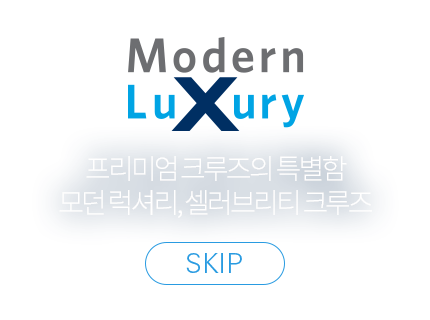
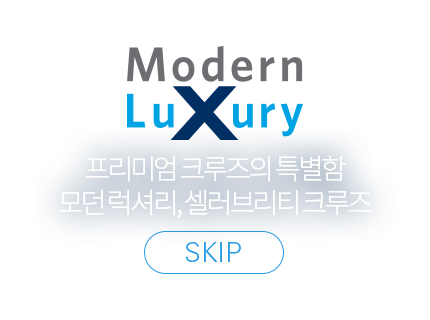
intro 수정

diff --git a/src/css/celebrity.css b/src/css/celebrity.css
@@ -1,1 +1,1 @@
-@charset "UTF-8";@font-face{font-family:'Nanum Gothic';font-style:normal;font-weight:700;src:url(../font/NanumGothic-Bold.eot);src:url(../font/NanumGothic-Bold.eot?#iefix) format("embedded-opentype"),url(../font/NanumGothic-Bold.woff2) format("woff2"),url(../font/NanumGothic-Bold.woff) format("woff"),url(../font/NanumGothic-Bold.ttf) format("truetype")}@font-face{font-family:'Nanum Gothic';font-style:normal;font-weight:400;src:url(../font/NanumGothic-Regular.eot);src:url(../font/NanumGothic-Regular.eot?#iefix) format("embedded-opentype"),url(../font/NanumGothic-Regular.woff2) format("woff2"),url(../font/NanumGothic-Regular.woff) format("woff"),url(../font/NanumGothic-Regular.ttf) format("truetype")}@font-face{font-family:'Nanum Gothic';font-style:normal;font-weight:800;src:url(../font/NanumGothic-ExtraBold.eot);src:url(../font/NanumGothic-ExtraBold.eot?#iefix) format("embedded-opentype"),url(../font/NanumGothic-ExtraBold.woff2) format("woff2"),url(../font/NanumGothic-ExtraBold.woff) format("woff"),url(../font/NanumGothic-ExtraBold.ttf) format("truetype")}body,p,h1,h2,h3,h4,h5,h6,menu,ul,ol,li,dl,dt,dd,table,th,td,form,fieldset,legend,input,textarea,button,select{margin:0;padding:0}body,input,textarea,select,button{font-family:'Nanum Gothic','Apple SD Gothic Neo','Dotum','돋움',Sans-serif;font-size:14px}img,fieldset{border:0}menu,ul,ol{list-style:none}em,address{font-style:normal}a,a:link{text-decoration:none}legend,.blind{position:absolute;top:0;left:0;width:0;height:0;overflow:hidden;visibility:hidden;font-size:0;line-height:0}.ht{position:absolute}.blind,.u_skip{visibility:hidden;overflow:hidden;position:absolute;left:-999em;width:0;height:0;font-size:0;color:transparent;line-height:0}.slider-nav button,.footer .bi i,.footer .sns a i,.combobox .arrow,.header .bi i,.wrap.intro .intro_header_cover .bi i,.header .gnb,.header .gnb li,.symbol_ship .combox-box .arrow,.footer .bot_menu .bar,.footer .sns,.combobox,.wrap,.symbol_ship .combox-box,.symbol_thumbnail .grade .thumb_img,.symbol_thumbnail .grade .subs,.symbol_thumbnail .view_membership,.symbol_thumbnail .ask_membership,.info_list .thumbnail .btn_more_bahamas,.info_list .thumbnail .btn_more_bermuda{display:inline-block;*display:inline;*zoom:1;vertical-align:top}.slider-nav button,.footer .bi i,.footer .sns a i,.combobox .arrow,.header .bi i,.wrap.intro .intro_header_cover .bi i,.header .gnb,.header .gnb li,.symbol_ship .combox-box .arrow{background-image:url(../im/sp_gnb.png);background-repeat:no-repeat;vertical-align:top}.slider-nav button{background-image:url(../im/sp_slide.png);border:0;background-color:transparent}.footer .bi i,.footer .sns a i,.combobox i.arrow,.header .bi i,.wrap.intro .intro_header_cover .bi i,.header i.gnb,.symbol_ship .combox-box i.arrow,.slider-nav button i,.section_head .tit i,.symbol_thumbnail .view_membership i,.symbol_thumbnail .ask_membership i,.info_list .thumbnail .btn_more i,.info_list .thumbnail .btn_more_bahamas i,.info_list .thumbnail .btn_more_bermuda i,.slider-nav button span{font:0/0 a;color:transparent}.footer .footer_cover,.symbol_thumbnail .grade,.info_list ul{zoom:1}.footer .footer_cover:after,.symbol_thumbnail .grade:after,.info_list ul:after{content:'';clear:both;height:0;display:block;visibility:hidden}.footer,.header,.hero,.container,.article,.info_list{width:916px;margin:0 auto;position:relative;zoom:1}.wrap{background:url(../im/body_bg/bg_main_body.jpg) no-repeat center top}.wrap.page_intro{background-image:url(../im/body_bg/bg_intro_body.jpg)}.wrap.page_club{background-image:url(../im/body_bg/bg_club_body.jpg)}.wrap.page_room{background-image:url(../im/body_bg/bg_room_body.jpg)}.wrap.page_sail{background-image:url(../im/body_bg/bg_sail_body.jpg)}.wrap.page_activity{background-image:url(../im/body_bg/bg_activity_body.jpg)}.wrap.page_spa{background-image:url(../im/body_bg/bg_spa_body.jpg)}.wrap.page_enter{background-image:url(../im/body_bg/bg_enter_body.jpg)}.wrap.page_res{background-image:url(../im/body_bg/bg_res_body.jpg)}.wrap.page_ship{background-image:url(../im/body_bg/bg_ship_body.jpg)}.slider-loading{position:absolute;top:0;left:0}.slider-loading .dimmed,.slider-loading .loading{position:absolute;display:block;top:0;left:0;width:100%;height:100%}.slider-loading .dimmed{filter:alpha(opacity=70);opacity:0.7;background-color:#000}.slider-loading .loading{background:url(../img/loading.gif) no-repeat center center}.slider-body{height:463px;overflow:hidden;zoom:1;background-color:#fff}.slider-body .cover{position:absolute;left:0;top:0;width:916px;height:463px;overflow:hidden}.slider-body .item{position:absolute;background-color:#fff}.slider-body .caption{position:absolute;bottom:0;right:0;text-align:right;line-height:45px;height:45px;color:#757575;font-size:1.1em;padding:0 10px 0 0}.slider-body img{vertical-align:top}.slider-nav{position:absolute;bottom:9px;left:0;margin:0;font-size:0;background-color:#fff;padding:0 20px 0 5px}.slider-nav button{width:26px;height:26px;background-position:4px -22px;cursor:pointer;margin-left:5px}.slider-nav button.av{background-position:-23px -22px}.footer{width:1000px;margin-bottom:40px}.footer .bot_menu{border-top:6px solid #002f63;padding:23px 0;line-height:18px;font-size:0;text-align:center}.footer .bot_menu a{color:#002f63;font-size:13px}.footer .bot_menu .bar{height:14px;border-right:1px solid #002f63;padding-left:15px;margin-right:14px;vertical-align:top;position:relative;top:2px}.footer .footer_cover{background-color:#002f63;position:relative;zoom:1}.footer .bi{float:left;padding:28px 44px 28px 39px}.footer .bi i{width:160px;height:34px;background-position:0 -70px}.footer .copyright{overflow:hidden;padding:14px 0 0 0;color:#fff}.footer .copyright address{font-size:1em;color:#fff;display:block;margin-bottom:5px}.footer .copyright p{font-size:0.85em;line-height:15px;color:#d1d5dd}.footer .connect_sns{position:absolute;right:0;top:0;padding:14px 29px 29px 0}.footer .sns{color:#fff;line-height:20px;padding:3px 0;font-size:0.9em}.footer .sns a{margin-left:1px}.footer .sns a i{width:20px;height:20px}.footer .facebook i{background-position:-168px -70px}.footer .twitter i{background-position:-193px -70px}.footer .naver i{background-position:-218px -70px}.footer .flickr i{background-position:-243px -70px}.footer .youtube i{background-position:-268px -70px}.combobox{position:absolute;right:29px;top:44px;zoom:1}.combobox .cb-button{border:1px solid #fff;background:transparent;color:#fff;height:30px;line-height:30px;padding:0 12px;box-sizing:content-box;cursor:pointer;white-space:nowrap;min-width:180px;text-align:left}.combobox .arrow{width:11px;height:30px;background-position:-306px -68px;position:absolute;right:12px;top:1px}.combobox .cb-layer{position:absolute;width:100%;top:100%;margin-top:-1px}.combobox .cb-layer ul{border:1px solid #fff;background-color:#002f63;border-bottom:0}.combobox .cb-layer a{color:#fff;display:block;padding:6px 12px 5px}.combobox .cb-layer a:hover{color:#002f63;background-color:#fff}.header .bi,.wrap.intro .intro_header_cover .bi{text-align:center;padding:50px 0 30px}.header .bi i,.wrap.intro .intro_header_cover .bi i{width:265px;height:55px;background-position:-20px 0}.wrap{min-width:100%}.header{margin-bottom:33px;z-index:30}.header .gnb{background-position:-300px 0;padding:5px 0 5px 73px;white-space:nowrap;font-size:0}.header .gnb li{background-color:#fff;line-height:52px;height:52px;background-position:209px 15px;position:relative;white-space:normal;font-size:14px}.header .gnb li a{color:#666;display:block;text-align:center;font-size:1.2em;width:210px}.header .gnb .membership{background-image:none}.header .gnb .reservation{height:50px;border:1px solid #299be1;background:url(../im/pt_gnb_reserve.png) repeat-x 0 0 #3baff6;overflow:hidden}.header .gnb .reservation a{color:#fff}.header .gnb .sub{display:none}.header .gnb li.selected a{position:relative;z-index:20;color:#fff}.header .gnb li.selected .sub{display:block}.header .gnb .sub{position:absolute;top:0;left:0;width:100%;background-color:#002859;padding-top:55px;padding-bottom:14px;z-index:10;line-height:normal}.header .gnb .sub li{background:none transparent;height:auto;line-height:35px;padding-bottom:3px}.header .gnb .sub a{font-size:1.1em}.header .gnb .sub a:hover{color:#299be1}.hero{position:relative;margin-bottom:19px;height:463px}.wrap.intro{position:absolute;top:0;bottom:0;left:0;right:0;background:none}.wrap.intro .intro_header_cover{position:absolute;top:50px;width:100%;z-index:30}.wrap.intro .intro_header_cover .bi{min-width:1000px}.wrap.intro .intro_footer_cover{position:absolute;bottom:40px;z-index:30;width:100%}.wrap.intro .intro_footer_cover .footer{margin-bottom:0}.wrap.intro .intro_content_cover{position:absolute;left:0;top:0;width:100%;height:100%;z-index:20;min-width:1000px;text-align:center;overflow:hidden;cursor:default !important}.wrap.intro .intro_content_cover .skip_intro{position:absolute;top:0;bottom:0;left:0;right:0;z-index:30}.wrap.intro .intro_content_cover .skip_intro a{display:block;width:430px;height:320px;background:url(../im/intro/intro_txt_eng.png?3) no-repeat;position:absolute;left:50%;top:50%;margin:-160px 0 0 -215px}.wrap.intro .intro_content_cover .skip_intro.lang_ko a{background-image:url(../im/intro/intro_txt_kor.png)}.wrap.intro .intro_content_cover #slider_container_main{position:relative;top:0px;left:0px;width:1600px;height:1080px;overflow:hidden}.wrap.intro .intro_content_cover #slider_container_main .cover{position:absolute;left:0px;top:0px;width:1600px;height:1080px;overflow:hidden}.container{width:1000px;background-color:#fff;border-top:7px solid #299be1}.page_intro .header,.page_club .header,.page_room .header,.page_sail .header,.page_activity .header,.page_spa .header,.page_enter .header,.page_res .header,.page_ship .header{margin-bottom:299px}.page_intro .slider-body,.page_club .slider-body,.page_room .slider-body,.page_sail .slider-body,.page_activity .slider-body,.page_spa .slider-body,.page_enter .slider-body,.page_res .slider-body,.page_ship .slider-body{height:545px}.page_intro .slider-body .cover,.page_club .slider-body .cover,.page_room .slider-body .cover,.page_sail .slider-body .cover,.page_activity .slider-body .cover,.page_spa .slider-body .cover,.page_enter .slider-body .cover,.page_res .slider-body .cover,.page_ship .slider-body .cover{width:920px;height:545px}.page_intro .slider-body .caption,.page_club .slider-body .caption,.page_room .slider-body .caption,.page_sail .slider-body .caption,.page_activity .slider-body .caption,.page_spa .slider-body .caption,.page_enter .slider-body .caption,.page_res .slider-body .caption,.page_ship .slider-body .caption{font-size:1.3em}.page_intro .hero,.page_club .hero,.page_room .hero,.page_sail .hero,.page_activity .hero,.page_spa .hero,.page_enter .hero,.page_res .hero,.page_ship .hero{height:545px}.article .sub_tit,.symbol_table caption{color:#299be1;font-size:1.6em;text-align:left;padding-bottom:8px;font-weight:normal}.symbol_thumbnail .grade .thumb_img,.symbol_thumbnail .view_membership,.symbol_thumbnail .ask_membership{background-image:url(../im/img_membership_grade.jpg);background-repeat:no-repeat}.section_head{padding:40px}.section_head .tit{height:91px;background-repeat:no-repeat}.section_head .section_list{border-collapse:collapse;table-layout:fixed;position:absolute;right:41px;top:43px}.section_head .section_list td{border:1px solid #e4e4e4;text-align:center;line-height:18px;padding:5px 5px;letter-spacing:-1px;min-width:118px}.section_head .section_list td a{color:#999;font-size:0.85em}.section_head .section_list td.selected{border:1px solid #299be1;background-color:#299be1}.section_head .section_list td.selected a{color:#fff}.page_intro .section_head .tit{background-image:url(../im/tit_head_intro.png);width:420px}.page_club .section_head .tit{background-image:url(../im/tit_head_club.png);width:492px}.page_room .section_head .tit{background-image:url(../im/tit_head_room.png);width:380px}.page_sail .section_head .tit{background-image:url(../im/tit_head_sail.png);width:380px}.page_activity .section_head .tit{background-image:url(../im/tit_head_activity.png);width:299px}.page_spa .section_head .tit{background-image:url(../im/tit_head_spa.png);width:351px}.page_enter .section_head .tit{background-image:url(../im/tit_head_enter.png);width:416px}.page_res .section_head .tit{background-image:url(../im/tit_head_res.png);width:440px}.page_ship .section_head .tit{background-image:url(../im/tit_head_ship.png);width:490px}.article{width:920px;color:#757575;margin-bottom:98px;z-index:20}.article .desc{font-size:1.6em;line-height:1.45em;color:#666}.article .info_list{left:-19px;padding-top:50px}.article .image_cover{display:block;padding-top:20px}.article .image_cover img{vertical-align:top}.article .btns{text-align:center;padding-top:20px}.symbol_ship{background-repeat:no-repeat;width:920px;height:370px;margin-top:50px;position:relative;zoom:1}.symbol_ship .tit{color:#fff;font-size:1.6em;margin-bottom:10px;padding:32px 0 0 44px}.symbol_ship .desc{color:#fff;font-size:1.15em;line-height:1.5em;width:350px;padding-left:44px}.symbol_ship.solstice_class{background-image:url(../im/ship/img_ship_solstice.jpg);z-index:19}.symbol_ship.millennium_class{background-image:url(../im/ship/img_ship_millennium.jpg);z-index:18}.symbol_ship.century_class{background-image:url(../im/ship/img_ship_century.jpg);z-index:17}.symbol_ship.xpedition_class{background-image:url(../im/ship/img_ship_xpedition.jpg);z-index:16}.symbol_ship .combox-box{position:absolute;top:289px;left:45px}.symbol_ship .combox-box .cb-label{width:100%;text-align:left;background-color:#299be1;color:#fff;border:0;border-radius:0;padding:0 50px 0 15px;height:50px;line-height:50px;position:relative;zoom:1;font-size:1.2em;cursor:pointer}.symbol_ship .combox-box .arrow{width:35px;height:32px;background-position:-339px -72px;position:absolute;right:14px;top:9px}.symbol_ship .combox-box .cb-list{background-color:#299be1;height:0;overflow:hidden}.symbol_ship .combox-box .cb-list a{color:#fff;display:block;height:38px;line-height:38px;padding:0 25px 0 15px;font-size:1.2em}.symbol_ship .combox-box .cb-list a .en{font-size:0.7em}.symbol_ship .combox-box .cb-list a:hover{background-color:#002f63}.symbol_ship .combox-box.open .cb-list{height:auto;overflow:visible}.symbol_table{padding:70px 0 40px}.symbol_table table{width:100%;table-layout:fixed;border-collapse:collapse}.symbol_table th,.symbol_table td{line-height:20px;padding:10px 0;text-align:center;font-weight:normal;font-size:1.2em}.symbol_table th{background-color:#299be1;color:#fff;border:1px solid #299be1}.symbol_table th:first-child{border-right:1px solid #e4e4e4}.symbol_table td{border:1px solid #e4e4e4;color:#666}.symbol_table tfoot td{border:0;text-align:left;font-size:1em}.symbol_thumbnail .grade{width:931px;margin-left:-10px;margin-bottom:42px}.symbol_thumbnail .grade li{width:300px;height:350px;margin-left:10px;float:left}.symbol_thumbnail .grade .thumb_img{width:300px;height:181px;margin-bottom:15px}.symbol_thumbnail .grade strong{font-size:1.2em;height:22px;display:block;line-height:22px;padding-left:9px;margin-bottom:10px;position:relative;zoom:1}.symbol_thumbnail .grade strong .sup{font-size:0.65em;position:relative;top:-6px}.symbol_thumbnail .grade .credit{position:absolute;right:0;top:0;border-radius:4px;color:#fff;font-size:0.8em;line-height:22px;height:22px;padding:0 8px;font-weight:normal}.symbol_thumbnail .grade .credit em{font-weight:bold}.symbol_thumbnail .grade .subs{padding-left:10px;color:#757575;font-size:1em;line-height:1.4em}.symbol_thumbnail .grade .preview .thumb_img{background-position:0 0}.symbol_thumbnail .grade .preview strong{color:#5ba432}.symbol_thumbnail .grade .preview .credit{background-color:#5ba432}.symbol_thumbnail .grade .classic .thumb_img{background-position:-311px 0}.symbol_thumbnail .grade .classic strong{color:#389bd1}.symbol_thumbnail .grade .classic .credit{background-color:#389bd1}.symbol_thumbnail .grade .select .thumb_img{background-position:-621px 0}.symbol_thumbnail .grade .select strong{color:#f1711a}.symbol_thumbnail .grade .select .credit{background-color:#f1711a}.symbol_thumbnail .grade .elite .thumb_img{background-position:0 -206px}.symbol_thumbnail .grade .elite strong{color:#58595b}.symbol_thumbnail .grade .elite .credit{background-color:#58595b}.symbol_thumbnail .grade .elite_plus .thumb_img{background-position:-311px -206px}.symbol_thumbnail .grade .elite_plus strong{color:#a1231d}.symbol_thumbnail .grade .elite_plus .credit{background-color:#a1231d}.symbol_thumbnail .grade .zenith .thumb_img{background-position:-621px -206px}.symbol_thumbnail .grade .zenith strong{color:#0a0a0a}.symbol_thumbnail .grade .zenith .credit{background-color:#0a0a0a}.symbol_thumbnail .btns{padding-top:0}.symbol_thumbnail .view_membership,.symbol_thumbnail .ask_membership{width:380px;height:68px;background-position:0 -407px;margin-right:16px}.symbol_thumbnail .ask_membership{width:400px;background-position:-400px -407px;margin-right:0}.info_list{width:954px;margin-bottom:19px}.info_list li{padding:19px;float:left}.info_list .thumbnail{width:280px;height:190px;position:relative;zoom:1;cursor:pointer}.info_list .thumbnail img{vertical-align:top}.info_list .thumbnail .subject{position:absolute;left:0;bottom:0;width:100%;height:35px;color:#fff;z-index:20;line-height:35px;text-indent:12px;font-size:0.9em}.info_list .thumbnail .deco{position:absolute;left:0;bottom:0;width:100%;height:35px;background-color:#002859;opacity:0.9;filter:alpha(opacity=90);z-index:10}.info_list .thumbnail .desc{position:absolute;top:50px;left:0;padding:0 5px 0 17px;font-size:0.8em;line-height:1.7em;z-index:20}.info_list .thumbnail .btn_more,.info_list .thumbnail .btn_more_bahamas,.info_list .thumbnail .btn_more_bermuda{background:url(../im/img_more.png?1) no-repeat;width:89px;height:27px;z-index:20;display:block;margin-top:15px}.info_list .thumbnail .desc,.info_list .thumbnail .btn_more,.info_list .thumbnail .btn_more_bahamas,.info_list .thumbnail .btn_more_bermuda{display:none;color:#fff}.info_list .thumbnail .btn_more_bahamas,.info_list .thumbnail .btn_more_bermuda{width:119px;background-position:0 -37px}.info_list .thumbnail .btn_more_bermuda{background-position:0 -74px}.info_list .hover .thumbnail .deco{top:0;height:100% !important}.info_list .hover .thumbnail .subject{top:0;bottom:auto;font-size:1.45em;font-weight:normal;padding-top:10px;text-indent:17px}.info_list .hover .thumbnail .desc,.info_list .hover .thumbnail .btn_more,.info_list .hover .thumbnail .btn_more_bahamas,.info_list .hover .thumbnail .btn_more_bermuda{display:block}.info_list .hover .thumbnail .btn_more_bahamas,.info_list .hover .thumbnail .btn_more_bermuda{display:inline-block}.info_list .hover .thumbnail .en{display:none}.info_list.large_list li{padding:19px 18px}.info_list.large_list .thumbnail{width:440px;height:300px}.info_list.large_list .thumbnail .subject{height:45px;line-height:45px;font-size:1.15em}.info_list.large_list .thumbnail .deco{height:45px}.info_list.large_list .thumbnail .btn_more,.info_list.large_list .thumbnail .btn_more_bahamas,.info_list.large_list .thumbnail .btn_more_bermuda{background-position:0 -111px;width:102px}.info_list.large_list .hover .thumbnail .desc{font-size:0.95em}.symbol_intro{border:2px solid #eaeaea;padding:43px 43px 50px;margin:70px 0 0}.symbol_intro .image{margin-bottom:40px}.symbol_intro .image img{vertical-align:top}.symbol_intro .desc{text-align:center;font-size:1.3em;line-height:1.6em;letter-spacing:-1px}.symbol_intro .large_txt{font-size:1.3em;line-height:1.8em}.symbol_intro .large_txt strong{color:#003468}.symbol_intro .part{background:url(../im/ico_intro_bullet.png) no-repeat center top;padding-top:50px;margin-top:20px;text-align:center}.symbol_intro .part h4{font-size:1.9em;color:#299be1;margin-bottom:10px}
+@charset "UTF-8";@font-face{font-family:'Nanum Gothic';font-style:normal;font-weight:700;src:url(../font/NanumGothic-Bold.eot);src:url(../font/NanumGothic-Bold.eot?#iefix) format("embedded-opentype"),url(../font/NanumGothic-Bold.woff2) format("woff2"),url(../font/NanumGothic-Bold.woff) format("woff"),url(../font/NanumGothic-Bold.ttf) format("truetype")}@font-face{font-family:'Nanum Gothic';font-style:normal;font-weight:400;src:url(../font/NanumGothic-Regular.eot);src:url(../font/NanumGothic-Regular.eot?#iefix) format("embedded-opentype"),url(../font/NanumGothic-Regular.woff2) format("woff2"),url(../font/NanumGothic-Regular.woff) format("woff"),url(../font/NanumGothic-Regular.ttf) format("truetype")}@font-face{font-family:'Nanum Gothic';font-style:normal;font-weight:800;src:url(../font/NanumGothic-ExtraBold.eot);src:url(../font/NanumGothic-ExtraBold.eot?#iefix) format("embedded-opentype"),url(../font/NanumGothic-ExtraBold.woff2) format("woff2"),url(../font/NanumGothic-ExtraBold.woff) format("woff"),url(../font/NanumGothic-ExtraBold.ttf) format("truetype")}body,p,h1,h2,h3,h4,h5,h6,menu,ul,ol,li,dl,dt,dd,table,th,td,form,fieldset,legend,input,textarea,button,select{margin:0;padding:0}body,input,textarea,select,button{font-family:'Nanum Gothic','Apple SD Gothic Neo','Dotum','돋움',Sans-serif;font-size:14px}img,fieldset{border:0}menu,ul,ol{list-style:none}em,address{font-style:normal}a,a:link{text-decoration:none}legend,.blind{position:absolute;top:0;left:0;width:0;height:0;overflow:hidden;visibility:hidden;font-size:0;line-height:0}.ht{position:absolute}.blind,.u_skip{visibility:hidden;overflow:hidden;position:absolute;left:-999em;width:0;height:0;font-size:0;color:transparent;line-height:0}.slider-nav button,.footer .bi i,.footer .sns a i,.combobox .arrow,.header .bi i,.wrap.intro .intro_header_cover .bi i,.header .gnb,.header .gnb li,.symbol_ship .combox-box .arrow,.footer .bot_menu .bar,.footer .sns,.combobox,.wrap,.symbol_ship .combox-box,.symbol_thumbnail .grade .thumb_img,.symbol_thumbnail .grade .subs,.symbol_thumbnail .view_membership,.symbol_thumbnail .ask_membership,.info_list .thumbnail .btn_more_bahamas,.info_list .thumbnail .btn_more_bermuda{display:inline-block;*display:inline;*zoom:1;vertical-align:top}.slider-nav button,.footer .bi i,.footer .sns a i,.combobox .arrow,.header .bi i,.wrap.intro .intro_header_cover .bi i,.header .gnb,.header .gnb li,.symbol_ship .combox-box .arrow{background-image:url(../im/sp_gnb.png);background-repeat:no-repeat;vertical-align:top}.slider-nav button{background-image:url(../im/sp_slide.png);border:0;background-color:transparent}.footer .bi i,.footer .sns a i,.combobox i.arrow,.header .bi i,.wrap.intro .intro_header_cover .bi i,.header i.gnb,.symbol_ship .combox-box i.arrow,.slider-nav button i,.section_head .tit i,.symbol_thumbnail .view_membership i,.symbol_thumbnail .ask_membership i,.info_list .thumbnail .btn_more i,.info_list .thumbnail .btn_more_bahamas i,.info_list .thumbnail .btn_more_bermuda i,.slider-nav button span{font:0/0 a;color:transparent}.footer .footer_cover,.symbol_thumbnail .grade,.info_list ul{zoom:1}.footer .footer_cover:after,.symbol_thumbnail .grade:after,.info_list ul:after{content:'';clear:both;height:0;display:block;visibility:hidden}.footer,.header,.hero,.container,.article,.info_list{width:916px;margin:0 auto;position:relative;zoom:1}.wrap{background:url(../im/body_bg/bg_main_body.jpg) no-repeat center top}.wrap.page_intro{background-image:url(../im/body_bg/bg_intro_body.jpg)}.wrap.page_club{background-image:url(../im/body_bg/bg_club_body.jpg)}.wrap.page_room{background-image:url(../im/body_bg/bg_room_body.jpg)}.wrap.page_sail{background-image:url(../im/body_bg/bg_sail_body.jpg)}.wrap.page_activity{background-image:url(../im/body_bg/bg_activity_body.jpg)}.wrap.page_spa{background-image:url(../im/body_bg/bg_spa_body.jpg)}.wrap.page_enter{background-image:url(../im/body_bg/bg_enter_body.jpg)}.wrap.page_res{background-image:url(../im/body_bg/bg_res_body.jpg)}.wrap.page_ship{background-image:url(../im/body_bg/bg_ship_body.jpg)}.slider-loading{position:absolute;top:0;left:0}.slider-loading .dimmed,.slider-loading .loading{position:absolute;display:block;top:0;left:0;width:100%;height:100%}.slider-loading .dimmed{filter:alpha(opacity=70);opacity:0.7;background-color:#000}.slider-loading .loading{background:url(../img/loading.gif) no-repeat center center}.slider-body{height:463px;overflow:hidden;zoom:1;background-color:#fff}.slider-body .cover{position:absolute;left:0;top:0;width:916px;height:463px;overflow:hidden}.slider-body .item{position:absolute;background-color:#fff}.slider-body .caption{position:absolute;bottom:0;right:0;text-align:right;line-height:45px;height:45px;color:#757575;font-size:1.1em;padding:0 10px 0 0}.slider-body img{vertical-align:top}.slider-nav{position:absolute;bottom:9px;left:0;margin:0;font-size:0;background-color:#fff;padding:0 20px 0 5px}.slider-nav button{width:26px;height:26px;background-position:4px -22px;cursor:pointer;margin-left:5px}.slider-nav button.av{background-position:-23px -22px}.footer{width:1000px;margin-bottom:40px}.footer .bot_menu{border-top:6px solid #002f63;padding:23px 0;line-height:18px;font-size:0;text-align:center}.footer .bot_menu a{color:#002f63;font-size:13px}.footer .bot_menu .bar{height:14px;border-right:1px solid #002f63;padding-left:15px;margin-right:14px;vertical-align:top;position:relative;top:2px}.footer .footer_cover{background-color:#002f63;position:relative;zoom:1}.footer .bi{float:left;padding:28px 44px 28px 39px}.footer .bi i{width:160px;height:34px;background-position:0 -70px}.footer .copyright{overflow:hidden;padding:14px 0 0 0;color:#fff}.footer .copyright address{font-size:1em;color:#fff;display:block;margin-bottom:5px}.footer .copyright p{font-size:0.85em;line-height:15px;color:#d1d5dd}.footer .connect_sns{position:absolute;right:0;top:0;padding:14px 29px 29px 0}.footer .sns{color:#fff;line-height:20px;padding:3px 0;font-size:0.9em}.footer .sns a{margin-left:1px}.footer .sns a i{width:20px;height:20px}.footer .facebook i{background-position:-168px -70px}.footer .twitter i{background-position:-193px -70px}.footer .naver i{background-position:-218px -70px}.footer .flickr i{background-position:-243px -70px}.footer .youtube i{background-position:-268px -70px}.combobox{position:absolute;right:29px;top:44px;zoom:1}.combobox .cb-button{border:1px solid #fff;background:transparent;color:#fff;height:30px;line-height:30px;padding:0 12px;box-sizing:content-box;cursor:pointer;white-space:nowrap;min-width:180px;text-align:left}.combobox .arrow{width:11px;height:30px;background-position:-306px -68px;position:absolute;right:12px;top:1px}.combobox .cb-layer{position:absolute;width:100%;top:100%;margin-top:-1px}.combobox .cb-layer ul{border:1px solid #fff;background-color:#002f63;border-bottom:0}.combobox .cb-layer a{color:#fff;display:block;padding:6px 12px 5px}.combobox .cb-layer a:hover{color:#002f63;background-color:#fff}.header .bi,.wrap.intro .intro_header_cover .bi{text-align:center;padding:50px 0 30px}.header .bi i,.wrap.intro .intro_header_cover .bi i{width:265px;height:55px;background-position:-20px 0}.wrap{min-width:100%}.header{margin-bottom:33px;z-index:30}.header .gnb{background-position:-300px 0;padding:5px 0 5px 73px;white-space:nowrap;font-size:0}.header .gnb li{background-color:#fff;line-height:52px;height:52px;background-position:209px 15px;position:relative;white-space:normal;font-size:14px}.header .gnb li a{color:#666;display:block;text-align:center;font-size:1.2em;width:210px}.header .gnb .membership{background-image:none}.header .gnb .reservation{height:50px;border:1px solid #299be1;background:url(../im/pt_gnb_reserve.png) repeat-x 0 0 #3baff6;overflow:hidden}.header .gnb .reservation a{color:#fff}.header .gnb .sub{display:none}.header .gnb li.selected a{position:relative;z-index:20;color:#fff}.header .gnb li.selected .sub{display:block}.header .gnb .sub{position:absolute;top:0;left:0;width:100%;background-color:#002859;padding-top:55px;padding-bottom:14px;z-index:10;line-height:normal}.header .gnb .sub li{background:none transparent;height:auto;line-height:35px;padding-bottom:3px}.header .gnb .sub a{font-size:1.1em}.header .gnb .sub a:hover{color:#299be1}.hero{position:relative;margin-bottom:19px;height:463px}.wrap.intro{position:absolute;top:0;bottom:0;left:0;right:0;background:none}.wrap.intro .intro_header_cover{position:absolute;top:50px;width:100%;z-index:30}.wrap.intro .intro_header_cover .bi{min-width:1000px}.wrap.intro .intro_footer_cover{position:absolute;bottom:40px;z-index:30;width:100%}.wrap.intro .intro_footer_cover .footer{margin-bottom:0}.wrap.intro .intro_content_cover{position:absolute;left:0;top:0;width:100%;height:100%;z-index:20;min-width:1000px;text-align:center;overflow:hidden;cursor:default !important}.wrap.intro .intro_content_cover .skip_intro{position:absolute;top:0;bottom:0;left:0;right:0;z-index:30}.wrap.intro .intro_content_cover .skip_intro a{display:block;width:430px;height:320px;background:url(../im/intro/intro_txt_eng.png?3) no-repeat;position:absolute;left:50%;top:50%;margin:-160px 0 0 -215px}.wrap.intro .intro_content_cover .skip_intro.lang_ko a{background-image:url(../im/intro/intro_txt_kor.png?2)}.wrap.intro .intro_content_cover #slider_container_main{position:relative;top:0px;left:0px;width:1600px;height:1080px;overflow:hidden}.wrap.intro .intro_content_cover #slider_container_main .cover{position:absolute;left:0px;top:0px;width:1600px;height:1080px;overflow:hidden}.container{width:1000px;background-color:#fff;border-top:7px solid #299be1}.page_intro .header,.page_club .header,.page_room .header,.page_sail .header,.page_activity .header,.page_spa .header,.page_enter .header,.page_res .header,.page_ship .header{margin-bottom:299px}.page_intro .slider-body,.page_club .slider-body,.page_room .slider-body,.page_sail .slider-body,.page_activity .slider-body,.page_spa .slider-body,.page_enter .slider-body,.page_res .slider-body,.page_ship .slider-body{height:545px}.page_intro .slider-body .cover,.page_club .slider-body .cover,.page_room .slider-body .cover,.page_sail .slider-body .cover,.page_activity .slider-body .cover,.page_spa .slider-body .cover,.page_enter .slider-body .cover,.page_res .slider-body .cover,.page_ship .slider-body .cover{width:920px;height:545px}.page_intro .slider-body .caption,.page_club .slider-body .caption,.page_room .slider-body .caption,.page_sail .slider-body .caption,.page_activity .slider-body .caption,.page_spa .slider-body .caption,.page_enter .slider-body .caption,.page_res .slider-body .caption,.page_ship .slider-body .caption{font-size:1.3em}.page_intro .hero,.page_club .hero,.page_room .hero,.page_sail .hero,.page_activity .hero,.page_spa .hero,.page_enter .hero,.page_res .hero,.page_ship .hero{height:545px}.article .sub_tit,.symbol_table caption{color:#299be1;font-size:1.6em;text-align:left;padding-bottom:8px;font-weight:normal}.symbol_thumbnail .grade .thumb_img,.symbol_thumbnail .view_membership,.symbol_thumbnail .ask_membership{background-image:url(../im/img_membership_grade.jpg);background-repeat:no-repeat}.section_head{padding:40px}.section_head .tit{height:91px;background-repeat:no-repeat}.section_head .section_list{border-collapse:collapse;table-layout:fixed;position:absolute;right:41px;top:43px}.section_head .section_list td{border:1px solid #e4e4e4;text-align:center;line-height:18px;padding:5px 5px;letter-spacing:-1px;min-width:118px}.section_head .section_list td a{color:#999;font-size:0.85em}.section_head .section_list td.selected{border:1px solid #299be1;background-color:#299be1}.section_head .section_list td.selected a{color:#fff}.page_intro .section_head .tit{background-image:url(../im/tit_head_intro.png);width:420px}.page_club .section_head .tit{background-image:url(../im/tit_head_club.png);width:492px}.page_room .section_head .tit{background-image:url(../im/tit_head_room.png);width:380px}.page_sail .section_head .tit{background-image:url(../im/tit_head_sail.png);width:380px}.page_activity .section_head .tit{background-image:url(../im/tit_head_activity.png);width:299px}.page_spa .section_head .tit{background-image:url(../im/tit_head_spa.png);width:351px}.page_enter .section_head .tit{background-image:url(../im/tit_head_enter.png);width:416px}.page_res .section_head .tit{background-image:url(../im/tit_head_res.png);width:440px}.page_ship .section_head .tit{background-image:url(../im/tit_head_ship.png);width:490px}.article{width:920px;color:#757575;margin-bottom:98px;z-index:20}.article .desc{font-size:1.6em;line-height:1.45em;color:#666}.article .info_list{left:-19px;padding-top:50px}.article .image_cover{display:block;padding-top:20px}.article .image_cover img{vertical-align:top}.article .btns{text-align:center;padding-top:20px}.symbol_ship{background-repeat:no-repeat;width:920px;height:370px;margin-top:50px;position:relative;zoom:1}.symbol_ship .tit{color:#fff;font-size:1.6em;margin-bottom:10px;padding:32px 0 0 44px}.symbol_ship .desc{color:#fff;font-size:1.15em;line-height:1.5em;width:350px;padding-left:44px}.symbol_ship.solstice_class{background-image:url(../im/ship/img_ship_solstice.jpg);z-index:19}.symbol_ship.millennium_class{background-image:url(../im/ship/img_ship_millennium.jpg);z-index:18}.symbol_ship.century_class{background-image:url(../im/ship/img_ship_century.jpg);z-index:17}.symbol_ship.xpedition_class{background-image:url(../im/ship/img_ship_xpedition.jpg);z-index:16}.symbol_ship .combox-box{position:absolute;top:289px;left:45px}.symbol_ship .combox-box .cb-label{width:100%;text-align:left;background-color:#299be1;color:#fff;border:0;border-radius:0;padding:0 50px 0 15px;height:50px;line-height:50px;position:relative;zoom:1;font-size:1.2em;cursor:pointer}.symbol_ship .combox-box .arrow{width:35px;height:32px;background-position:-339px -72px;position:absolute;right:14px;top:9px}.symbol_ship .combox-box .cb-list{background-color:#299be1;height:0;overflow:hidden}.symbol_ship .combox-box .cb-list a{color:#fff;display:block;height:38px;line-height:38px;padding:0 25px 0 15px;font-size:1.2em}.symbol_ship .combox-box .cb-list a .en{font-size:0.7em}.symbol_ship .combox-box .cb-list a:hover{background-color:#002f63}.symbol_ship .combox-box.open .cb-list{height:auto;overflow:visible}.symbol_table{padding:70px 0 40px}.symbol_table table{width:100%;table-layout:fixed;border-collapse:collapse}.symbol_table th,.symbol_table td{line-height:20px;padding:10px 0;text-align:center;font-weight:normal;font-size:1.2em}.symbol_table th{background-color:#299be1;color:#fff;border:1px solid #299be1}.symbol_table th:first-child{border-right:1px solid #e4e4e4}.symbol_table td{border:1px solid #e4e4e4;color:#666}.symbol_table tfoot td{border:0;text-align:left;font-size:1em}.symbol_thumbnail .grade{width:931px;margin-left:-10px;margin-bottom:42px}.symbol_thumbnail .grade li{width:300px;height:350px;margin-left:10px;float:left}.symbol_thumbnail .grade .thumb_img{width:300px;height:181px;margin-bottom:15px}.symbol_thumbnail .grade strong{font-size:1.2em;height:22px;display:block;line-height:22px;padding-left:9px;margin-bottom:10px;position:relative;zoom:1}.symbol_thumbnail .grade strong .sup{font-size:0.65em;position:relative;top:-6px}.symbol_thumbnail .grade .credit{position:absolute;right:0;top:0;border-radius:4px;color:#fff;font-size:0.8em;line-height:22px;height:22px;padding:0 8px;font-weight:normal}.symbol_thumbnail .grade .credit em{font-weight:bold}.symbol_thumbnail .grade .subs{padding-left:10px;color:#757575;font-size:1em;line-height:1.4em}.symbol_thumbnail .grade .preview .thumb_img{background-position:0 0}.symbol_thumbnail .grade .preview strong{color:#5ba432}.symbol_thumbnail .grade .preview .credit{background-color:#5ba432}.symbol_thumbnail .grade .classic .thumb_img{background-position:-311px 0}.symbol_thumbnail .grade .classic strong{color:#389bd1}.symbol_thumbnail .grade .classic .credit{background-color:#389bd1}.symbol_thumbnail .grade .select .thumb_img{background-position:-621px 0}.symbol_thumbnail .grade .select strong{color:#f1711a}.symbol_thumbnail .grade .select .credit{background-color:#f1711a}.symbol_thumbnail .grade .elite .thumb_img{background-position:0 -206px}.symbol_thumbnail .grade .elite strong{color:#58595b}.symbol_thumbnail .grade .elite .credit{background-color:#58595b}.symbol_thumbnail .grade .elite_plus .thumb_img{background-position:-311px -206px}.symbol_thumbnail .grade .elite_plus strong{color:#a1231d}.symbol_thumbnail .grade .elite_plus .credit{background-color:#a1231d}.symbol_thumbnail .grade .zenith .thumb_img{background-position:-621px -206px}.symbol_thumbnail .grade .zenith strong{color:#0a0a0a}.symbol_thumbnail .grade .zenith .credit{background-color:#0a0a0a}.symbol_thumbnail .btns{padding-top:0}.symbol_thumbnail .view_membership,.symbol_thumbnail .ask_membership{width:380px;height:68px;background-position:0 -407px;margin-right:16px}.symbol_thumbnail .ask_membership{width:400px;background-position:-400px -407px;margin-right:0}.info_list{width:954px;margin-bottom:19px}.info_list li{padding:19px;float:left}.info_list .thumbnail{width:280px;height:190px;position:relative;zoom:1;cursor:pointer}.info_list .thumbnail img{vertical-align:top}.info_list .thumbnail .subject{position:absolute;left:0;bottom:0;width:100%;height:35px;color:#fff;z-index:20;line-height:35px;text-indent:12px;font-size:0.9em}.info_list .thumbnail .deco{position:absolute;left:0;bottom:0;width:100%;height:35px;background-color:#002859;opacity:0.9;filter:alpha(opacity=90);z-index:10}.info_list .thumbnail .desc{position:absolute;top:50px;left:0;padding:0 5px 0 17px;font-size:0.8em;line-height:1.7em;z-index:20}.info_list .thumbnail .btn_more,.info_list .thumbnail .btn_more_bahamas,.info_list .thumbnail .btn_more_bermuda{background:url(../im/img_more.png?1) no-repeat;width:89px;height:27px;z-index:20;display:block;margin-top:15px}.info_list .thumbnail .desc,.info_list .thumbnail .btn_more,.info_list .thumbnail .btn_more_bahamas,.info_list .thumbnail .btn_more_bermuda{display:none;color:#fff}.info_list .thumbnail .btn_more_bahamas,.info_list .thumbnail .btn_more_bermuda{width:119px;background-position:0 -37px}.info_list .thumbnail .btn_more_bermuda{background-position:0 -74px}.info_list .hover .thumbnail .deco{top:0;height:100% !important}.info_list .hover .thumbnail .subject{top:0;bottom:auto;font-size:1.45em;font-weight:normal;padding-top:10px;text-indent:17px}.info_list .hover .thumbnail .desc,.info_list .hover .thumbnail .btn_more,.info_list .hover .thumbnail .btn_more_bahamas,.info_list .hover .thumbnail .btn_more_bermuda{display:block}.info_list .hover .thumbnail .btn_more_bahamas,.info_list .hover .thumbnail .btn_more_bermuda{display:inline-block}.info_list .hover .thumbnail .en{display:none}.info_list.large_list li{padding:19px 18px}.info_list.large_list .thumbnail{width:440px;height:300px}.info_list.large_list .thumbnail .subject{height:45px;line-height:45px;font-size:1.15em}.info_list.large_list .thumbnail .deco{height:45px}.info_list.large_list .thumbnail .btn_more,.info_list.large_list .thumbnail .btn_more_bahamas,.info_list.large_list .thumbnail .btn_more_bermuda{background-position:0 -111px;width:102px}.info_list.large_list .hover .thumbnail .desc{font-size:0.95em}.symbol_intro{border:2px solid #eaeaea;padding:43px 43px 50px;margin:70px 0 0}.symbol_intro .image{margin-bottom:40px}.symbol_intro .image img{vertical-align:top}.symbol_intro .desc{text-align:center;font-size:1.3em;line-height:1.6em;letter-spacing:-1px}.symbol_intro .large_txt{font-size:1.3em;line-height:1.8em}.symbol_intro .large_txt strong{color:#003468}.symbol_intro .part{background:url(../im/ico_intro_bullet.png) no-repeat center top;padding-top:50px;margin-top:20px;text-align:center}.symbol_intro .part h4{font-size:1.9em;color:#299be1;margin-bottom:10px}

diff --git a/src/scss/page/_main.scss b/src/scss/page/_main.scss
@@ -54,7 +54,7 @@
 		position:absolute;left:0;top:0;width:100%;height:100%;z-index:20;min-width:1000px;text-align:center;overflow:hidden;cursor:default!important;		
 		.skip_intro{position:absolute;top:0;bottom:0;left:0;right:0;z-index:30}
 		.skip_intro a{display:block;width:430px;height:320px;background:url(../im/intro/intro_txt_eng.png?3) no-repeat;position:absolute;left:50%;top:50%;margin:-160px 0 0 -215px}
-		.skip_intro.lang_ko a{background-image:url(../im/intro/intro_txt_kor.png)}
+		.skip_intro.lang_ko a{background-image:url(../im/intro/intro_txt_kor.png?2)}
 		
 		#slider_container_main{position:relative;top:0px;left:0px;width:1600px;height:1080px;overflow:hidden;}
 		#slider_container_main .cover{position:absolute;left:0px;top:0px;width:1600px;height:1080px;overflow:hidden;}
